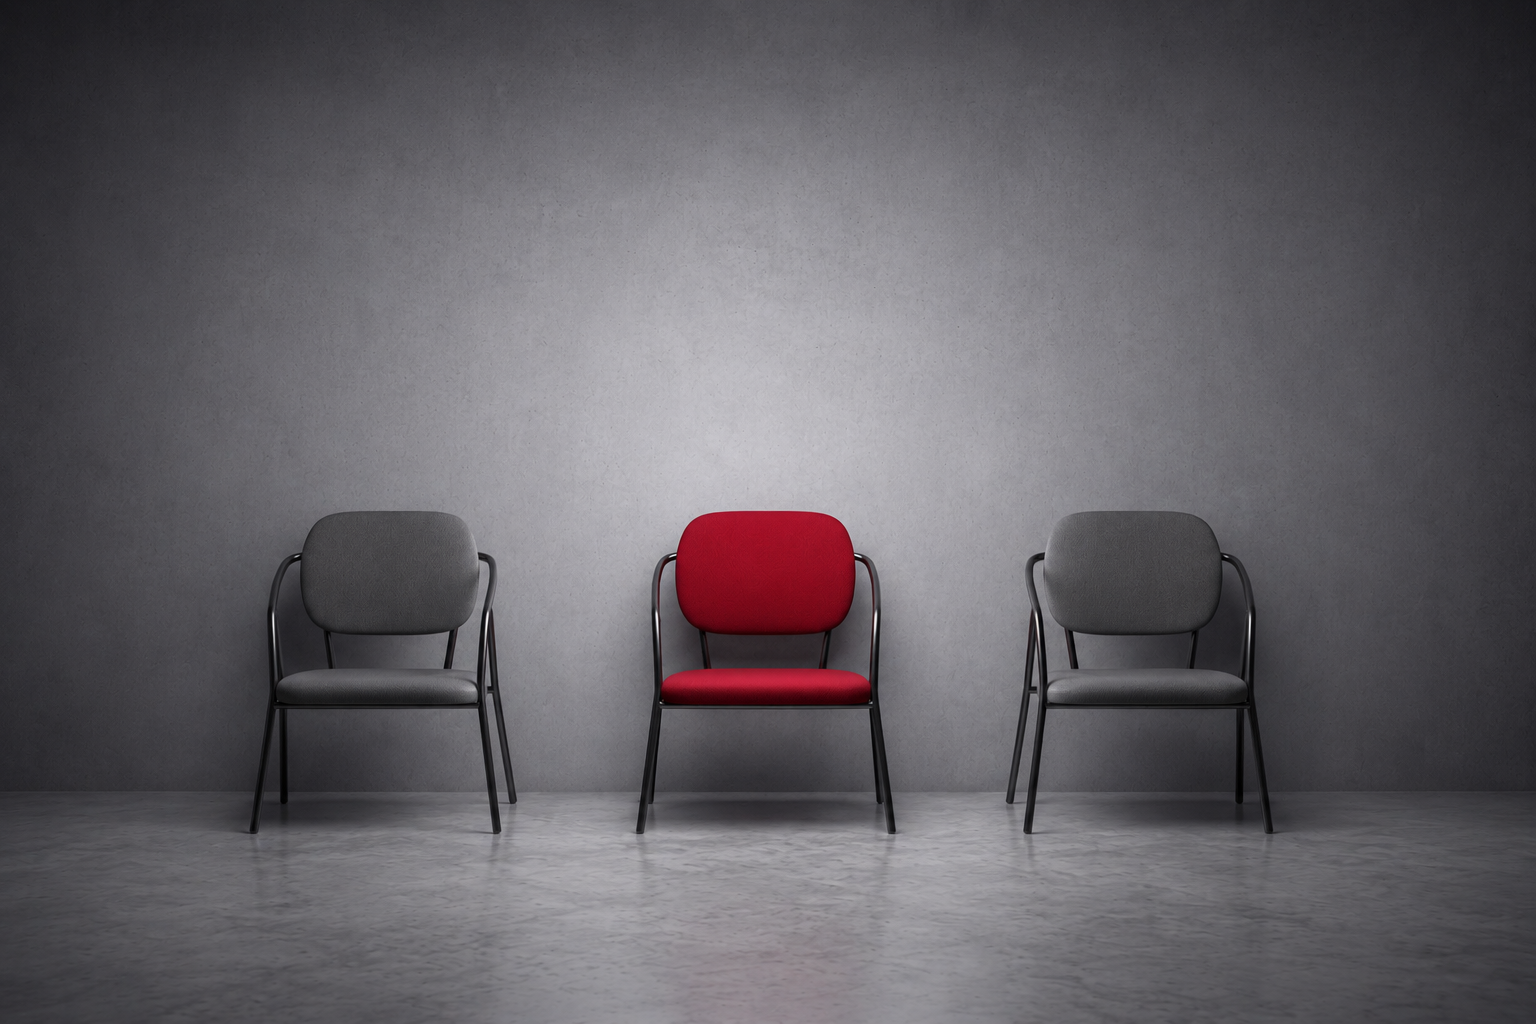
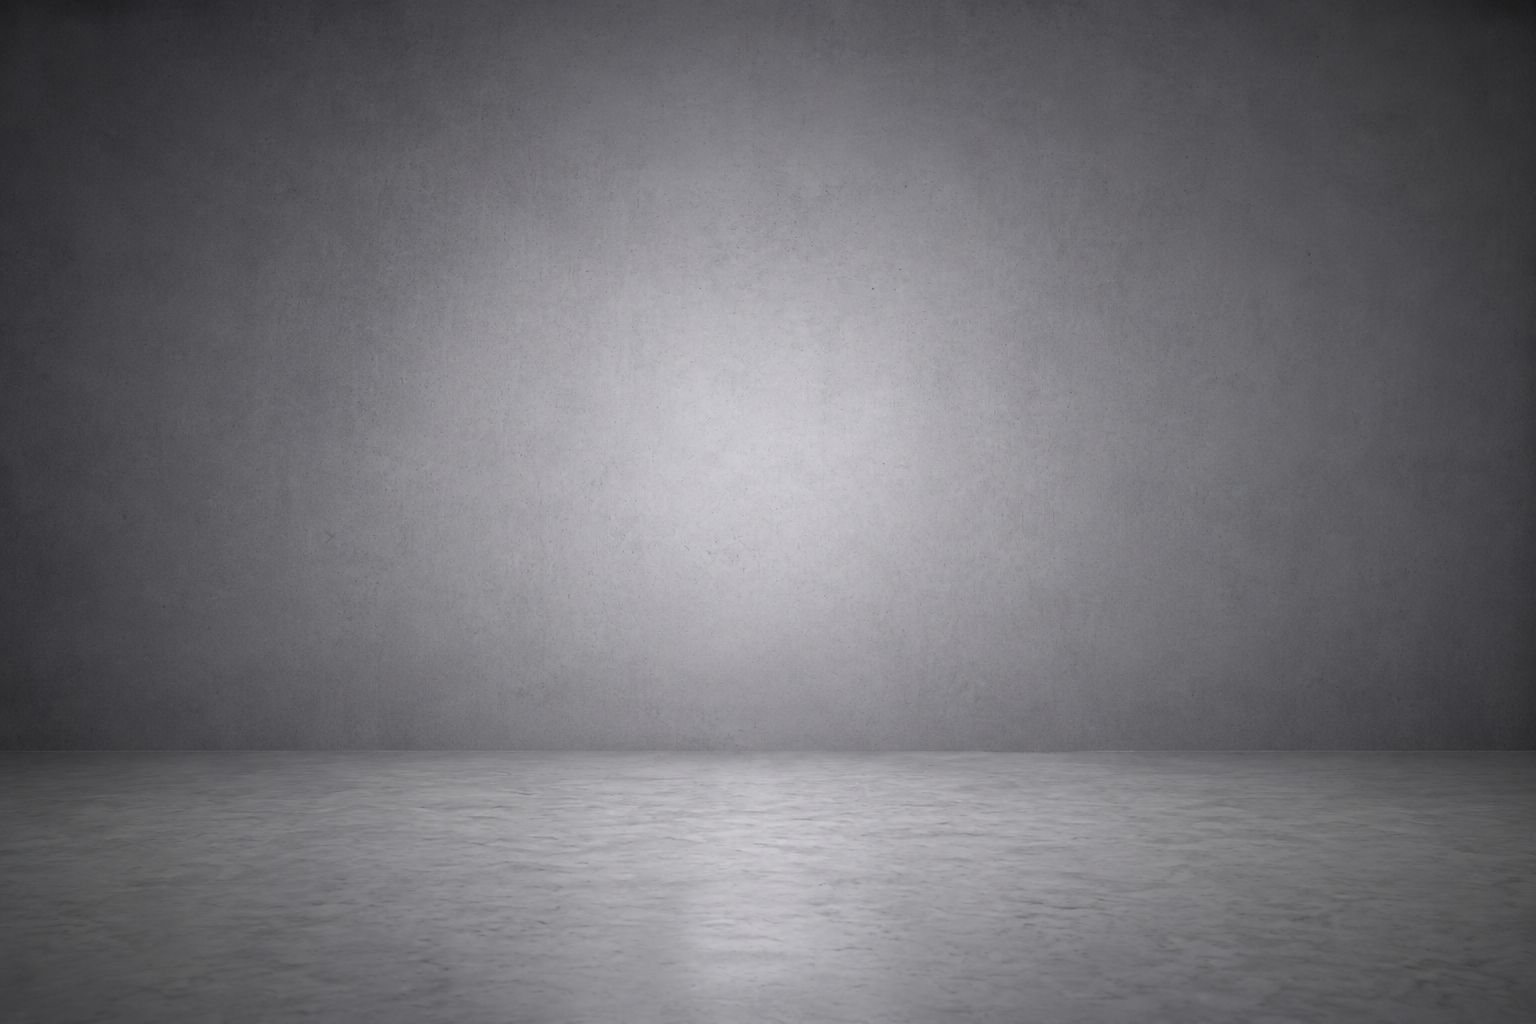
pdated chairs

diff --git a/config/site.php b/config/site.php
@@ -20,14 +20,14 @@ $site = [
 
 $footerContacts = [
     [
-        'name' => 'Dr. Asif Hassan',
-        'role' => 'Professor & Head, Dept. of ECE',
+        'name' => 'Dr. Shareefraju J. Ukkund',
+        'role' => 'Associate Professor, Dept. of BT',
         'phone' => '[phone redacted]',
     ],
     [
-        'name' => 'Dr. Shareefraju J. Ukkund',
-        'role' => 'Associate Professor, Dept. of BT',
-        'phone' => '[phone redacted]',
+        'name' => 'Dr. Asif Hassan',
+        'role' => 'Professor & Head, Dept. of ECE',
+        'phone' => '[phone redacted]',
     ],
 ];
 
@@ -121,8 +121,8 @@ $committeeSections = [
     [
         'title' => 'Organizing Chairs',
         'members' => [
-            ['name' => 'Dr. Asif Hassan', 'role' => 'Professor & Head, Dept. of ECE', 'image' => 'Assets/Images/People/asif-hassan.jpg'],
             ['name' => 'Dr. Shareefraju J Ukkund', 'role' => 'Associate Professor, Dept. of BT', 'image' => 'Assets/Images/People/shareefraju-ukkund.jpeg'],
+            ['name' => 'Dr. Asif Hassan', 'role' => 'Professor & Head, Dept. of ECE', 'image' => 'Assets/Images/People/asif-hassan.jpg'],
         ],
     ],
     [